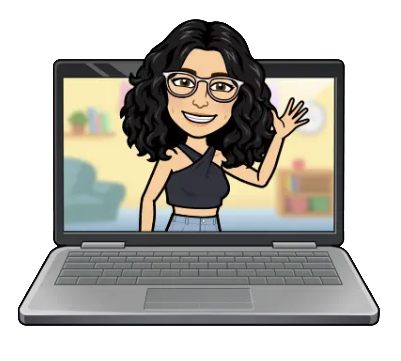
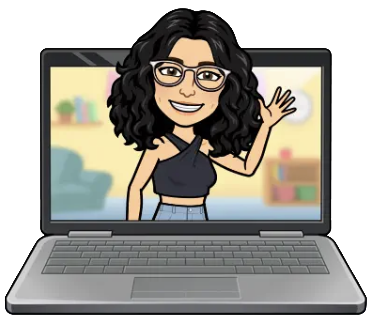
more messing with flex

diff --git a/css/styles.css b/css/styles.css
@@ -2,10 +2,12 @@
 
 /* fonts */
 @import url('https://fonts.googleapis.com/css2?family=Nanum+Gothic&family=PT+Sans:ital,wght@0,400;0,700;1,400;1,700&display=swap');
+@import url('https://fonts.googleapis.com/css2?family=Inconsolata:wght@200;300;400;500;600&display=swap');
 
 /* styles */
 * {
-    font-family: 'PT Sans', sans-serif;
+    /*font-family: 'PT Sans', sans-serif;*/
+    font-family: 'Inconsolata', monospace;
     margin: 0px;
 }
 
@@ -15,7 +17,7 @@
     justify-content: space-between;
     align-items: center;
     height: 100px;
-    background-color: black;
+    background-color: rgb(0, 0, 0);
 }
 
 .nav-item {
@@ -38,19 +40,94 @@
 
 .nav-logo {
     margin-left: 15%;
-    font-size: 30px;
+    font-size: 35px;
 }
 
 .nav-links {
     display: flex;
     justify-content: space-between;
     align-items: center;
-    width: 350px;
+    width: 375px;
     margin-right: 15%;
 }
 
 .nav-link {
-    font-size: 20px;
+    font-size: 25px;
 }
 
 /*ABOUT*/
+.about-section {
+    background-color: white;
+}
+
+.about-container {
+    display:flex;
+    justify-content: center;
+    align-items: flex-end;
+    gap: 7%;
+    margin: 3% 15% 6% 15%;
+}
+
+.intro-col-1, .intro-col {
+    flex: 0 1 auto;
+}
+
+.intro-col-1 h2, .intro-col-1 h1, .intro-col-1 p{
+    font-weight: 300;
+    font-family: 'Inconsolata', monospace;
+}
+
+.intro-col-1 h2, .intro-col-1 h1 {
+    font-weight:600;
+}
+
+.intro-col-1 h2 {
+    font-size: 2.8vw;
+    font-weight: 300;
+    margin-bottom: -2px;
+}
+
+.intro-col-1 h1 {
+    font-size: 5vw;
+    font-weight: 300;
+    margin-bottom: 30px;
+}
+
+.intro-col-1 p {
+    font-size: 2.1vw;
+}
+
+#bitmoji {
+    width: 27vw;
+    height: auto;
+}
+
+/*PROJECT*/
+
+.project-section {
+    background-color: rgb(245, 245, 245);
+    border: 1px solid green;
+}
+
+.project-container {
+    display: flex;
+    flex-direction: column;
+    justify-content: center;
+    margin: 6% 15%;
+    border: 1px solid black;
+}
+
+.project-heading, .project {
+    border: 1px dashed red;
+}
+
+.project-heading {
+    flex: 1 1 auto;
+}
+
+.project {
+    flex: 1 1 auto;
+}
+
+
+

diff --git a/index.html b/index.html
@@ -26,6 +26,36 @@
     </nav>
 
     <!--ABOUT-->
+    <section class="about-section">
+        <div class="about-container">
+            <div class="intro-col">
+                <img id="bitmoji" src="/img/bitmoji.png">
+            </div>
+            <div class="intro-col-1">
+                <h2>Hi, my name is</h2>
+                <h1>Aliya Gamez</h1>
+                <p>I am an aspiring front-end web developer with a focus on web design. My main areas of expertise include HTML, CSS, Javascript, Node.js, React, PHP and Python.</p>
+            </div>
+        </div>
+    </section>
+
+    <!--PROJECTS-->
+    <section class="project-section">
+        <div class="project-container">
+            <div class="project-heading">
+                <h1>Projects</h1>
+            </div>
+            <div class="project">
+                <p>Lorem ipsum dolor sit amet, consectetur adipiscing elit, sed do eiusmod tempor incididunt ut labore et dolore magna aliqua. Laoreet sit amet cursus sit amet.</p>
+            </div>
+            <div class="project">
+                <p>Lorem ipsum dolor sit amet, consectetur adipiscing elit, sed do eiusmod tempor incididunt ut labore et dolore magna aliqua. Laoreet sit amet cursus sit amet.</p>
+            </div>
+            <div class="project">
+                <p>Lorem ipsum dolor sit amet, consectetur adipiscing elit, sed do eiusmod tempor incididunt ut labore et dolore magna aliqua. Laoreet sit amet cursus sit amet.</p>
+            </div>
+        </div>
+    </section>
     
 </body>
 </html>
